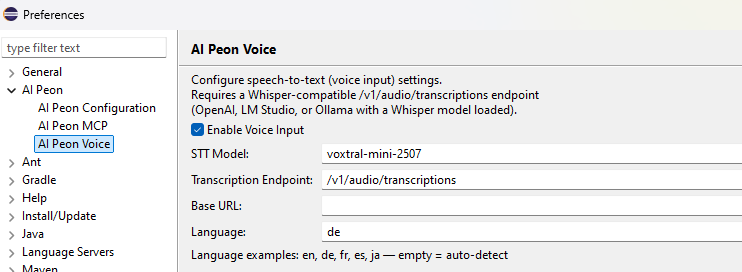
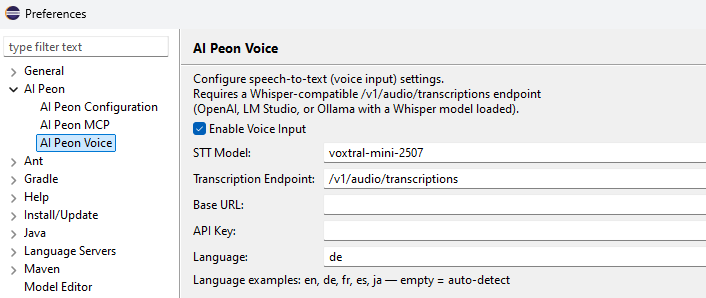
added doc and test

diff --git a/org.sterl.llmpeon.core/src/test/java/org/sterl/llmpeon/ai/voice/VoiceConfigTest.java b/org.sterl.llmpeon.core/src/test/java/org/sterl/llmpeon/ai/voice/VoiceConfigTest.java
@@ -1,0 +1,109 @@
+package org.sterl.llmpeon.ai.voice;
+
+import static org.junit.jupiter.api.Assertions.assertEquals;
+import static org.junit.jupiter.api.Assertions.assertNull;
+
+import org.junit.jupiter.api.Test;
+import org.sterl.llmpeon.ai.LlmConfig;
+
+class VoiceConfigTest {
+
+    // GIVEN a standard LLM config with url and apiKey
+    private static final LlmConfig LLM = LlmConfig.builder()
+            .url("https://api.openai.com")
+            .apiKey("llm-key")
+            .build();
+
+    @Test
+    void shouldUseVoiceUrlWhenSet() {
+        // GIVEN a voice config with an explicit base URL
+        var voice = voice("https://api.mistral.ai", "");
+
+        // WHEN resolved against the LLM config
+        var resolved = voice.resolve(LLM);
+
+        // THEN the voice URL is used
+        assertEquals("https://api.mistral.ai", resolved.baseUrl());
+    }
+
+    @Test
+    void shouldFallBackToLlmUrlWhenVoiceUrlBlank() {
+        // GIVEN a voice config with no base URL
+        var voice = voice("", "");
+
+        // WHEN resolved against the LLM config
+        var resolved = voice.resolve(LLM);
+
+        // THEN the LLM URL is used
+        assertEquals("https://api.openai.com", resolved.baseUrl());
+    }
+
+    @Test
+    void shouldFallBackToLlmUrlWhenVoiceUrlNull() {
+        // GIVEN a voice config with a null base URL
+        var voice = voice(null, null);
+
+        // WHEN resolved against the LLM config
+        var resolved = voice.resolve(LLM);
+
+        // THEN the LLM URL is used
+        assertEquals("https://api.openai.com", resolved.baseUrl());
+    }
+
+    @Test
+    void shouldUseVoiceApiKeyWhenSet() {
+        // GIVEN a voice config with an explicit API key
+        var voice = voice("", "voice-key");
+
+        // WHEN resolved against the LLM config
+        var resolved = voice.resolve(LLM);
+
+        // THEN the voice API key is used
+        assertEquals("voice-key", resolved.apiKey());
+    }
+
+    @Test
+    void shouldFallBackToLlmApiKeyWhenVoiceKeyBlank() {
+        // GIVEN a voice config with no API key
+        var voice = voice("", "");
+
+        // WHEN resolved against the LLM config
+        var resolved = voice.resolve(LLM);
+
+        // THEN the LLM API key is used
+        assertEquals("llm-key", resolved.apiKey());
+    }
+
+    @Test
+    void shouldUseVoiceValuesWhenBothSet() {
+        // GIVEN a voice config with both URL and API key set
+        var voice = voice("https://voice.host", "voice-key");
+
+        // WHEN resolved against the LLM config
+        var resolved = voice.resolve(LLM);
+
+        // THEN both voice values are used
+        assertEquals("https://voice.host", resolved.baseUrl());
+        assertEquals("voice-key", resolved.apiKey());
+    }
+
+    @Test
+    void shouldNotThrowWhenLlmFieldsAreNull() {
+        // GIVEN a voice config with no values and an LLM config with no url or apiKey
+        var llm = LlmConfig.builder().build();
+        var voice = voice(null, null);
+
+        // WHEN resolved
+        var resolved = voice.resolve(llm);
+
+        // THEN resolved values are null without NPE
+        assertNull(resolved.baseUrl());
+        assertNull(resolved.apiKey());
+    }
+
+    // --- helpers ---
+
+    private VoiceConfig voice(String baseUrl, String apiKey) {
+        return new VoiceConfig(true, "voxtral-mini-latest", "/v1/audio/transcriptions", baseUrl, apiKey, "");
+    }
+}
